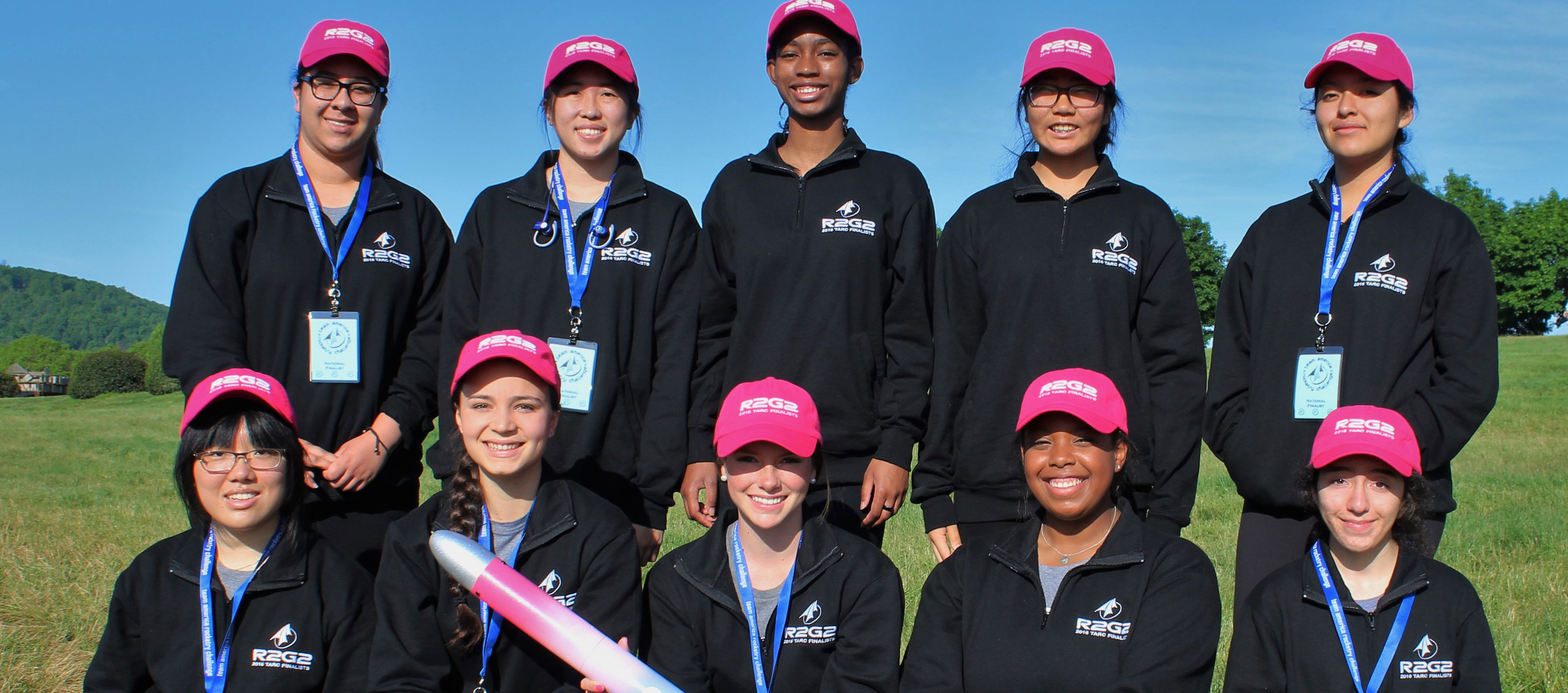
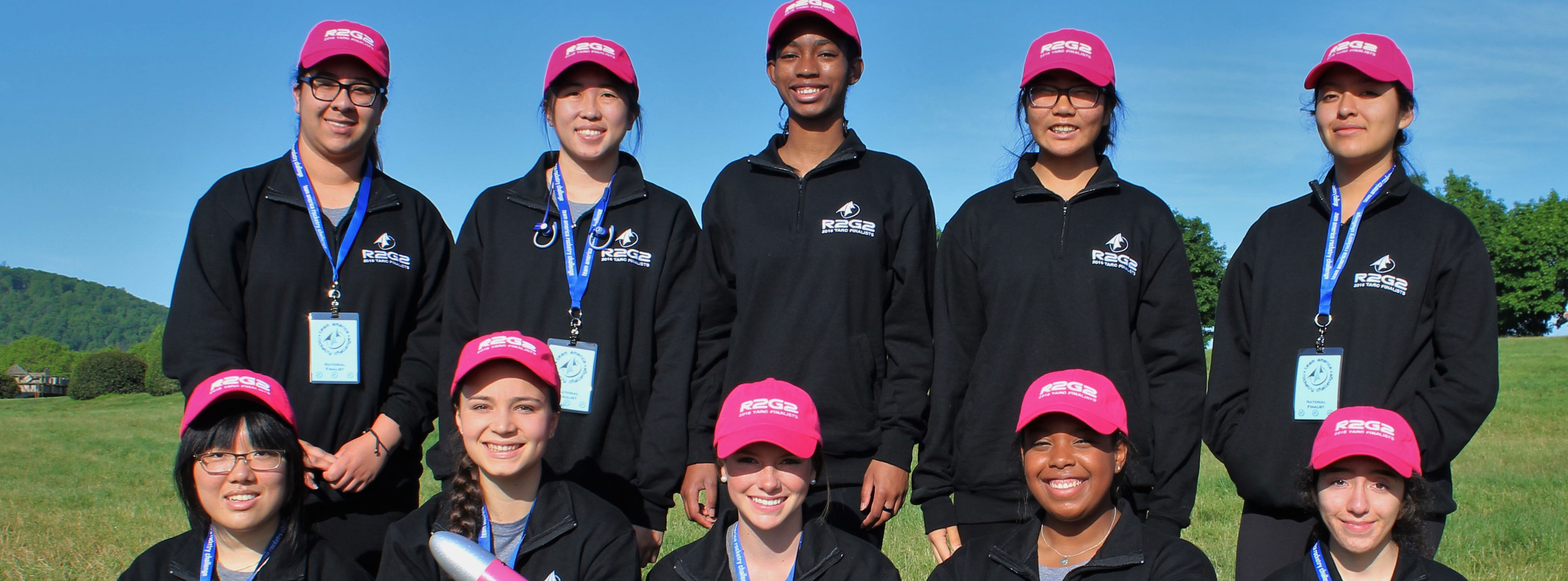
fantastic beasts

diff --git a/rocketry.html b/rocketry.html
@@ -48,13 +48,13 @@
     </div>
 
     <div class="bgimg-1">
-      <img src="https://github.com/Clarachun/R2G2Website/blob/master/Photographs/Rocketry%20Team%202016.jpg?raw=true">
+      <img src="https://raw.githubusercontent.com/Clarachun/R2G2Website/master/photos/3.jpg">
     </div>
 
     <div class="container marketing">
       <div class="row featurette">
         <div class="col-md-5">
-          <img class="featurette-image img-fluid mx-auto" src="https://github.com/Clarachun/R2G2Website/blob/master/Photographs/f02c17_af6f2ad990334e528d165178615b2431.jpg?raw=true" alt="Generic placeholder image">
+          <img class="featurette-image img-fluid mx-auto" src="https://raw.githubusercontent.com/Clarachun/R2G2Website/master/photos/8.jpg">
         </div>
         <div class="col-md-7">
           <h2 class="featurette-heading">NDA IN <span class="text-muted">TARC</span></h2>
@@ -76,11 +76,8 @@
             became an annual program.</p>
         </div>
         <div class="col-md-5 pull-md-7">
-<<<<<<< HEAD
-          <img class="featurette-image img-fluid mx-auto" src="https://github.com/Clarachun/R2G2Website/blob/master/Photographs/IMG_2870.JPG?raw=true alt="Generic placeholder image">
-=======
-          <img src="photographs/Team at Nationals.jpg" height= "300px" width= "500px">
->>>>>>> origin/master
+
+          <img class="featurette-image img-fluid mx-auto" src="https://raw.githubusercontent.com/Clarachun/R2G2Website/master/photos/6.jpg">
         </div>
       </div>
 

diff --git a/VEX.html b/VEX.html
@@ -102,7 +102,7 @@
               <div id="home" class="tab-pane fade in active">
                 <div class="col-md-5">
                   <div class="fake">
-                    <img class="featurette-image img-fluid mx-auto fake" src="http://66.media.tumblr.com/ac537ff63de044a1bba87883a5af649b/tumblr_nykn9keN7n1qkq3ido6_400.png">
+                    <img class="featurette-image img-fluid mx-auto fake" src="https://raw.githubusercontent.com/Clarachun/R2G2Website/master/photos/12.jpg">
                   </div>
                 </div>
                 <div class="col-md-7">
@@ -129,7 +129,7 @@
             <div id="menu1" class="tab-pane fade">
                 <div class="col-md-5">
                   <div class="fake">
-                    <img class="featurette-image img-fluid mx-auto fake" src="http://41.media.tumblr.com/ad432d4cae39673084bcc0e750405c3b/tumblr_nykn9keN7n1qkq3ido3_400.png">
+                    <img class="featurette-image img-fluid mx-auto fake" src="https://raw.githubusercontent.com/Clarachun/R2G2Website/master/photos/11.jpg">
                   </div>
                 </div>
                 <div class="col-md-7">

diff --git a/about.html b/about.html
@@ -130,11 +130,6 @@
     <script src="https://maxcdn.bootstrapcdn.com/bootstrap/3.3.6/js/bootstrap.min.js"></script>
   </body>
 
-
-         <h1><center>
-        2014-2015 Season
-        </h1> </center>
-
         <script>
 
 		var c = document.getElementById("myCanvas");
@@ -147,29 +142,6 @@
 		ctx.stroke();
 
 		</script>
-
-        <br> <br>
-
-        <center>
-        <h3><b>Skyrise: 2014-2015</b></h3>
-
-        <br>
-
-		<p>Game Details: VEX Skyrise is played by two alliances (Red and Blue), each alliance made up of two teams,
-		on a 12'x12' square field. The game consists of a 15 second autonomous period followed by driver-controlled play
-		for 1 minute and 45 seconds. The goal is to stack your colored cubes (22 red, 22 blue) in floor goals, on posts or
-		 on your skyrise, by owning posts, and by building your skyrise sections </p> </center>
-
-		 <br><br>
-
-
-		
-
-
-
-
-
-
 
         <script src="https://code.jquery.com/jquery-1.12.2.min.js"></script>
         <script src="https://maxcdn.bootstrapcdn.com/bootstrap/3.3.6/js/bootstrap.min.js"></script>

diff --git a/css/rocketry.css b/css/rocketry.css
@@ -46,8 +46,8 @@ body, html {
     min-width: 100%;
 }
 .featurette-image{
-    height: 300px;
-    width: 100%;
+    height: 400px;
+    width: 400px;
     overflow: hidden;
 }
 
